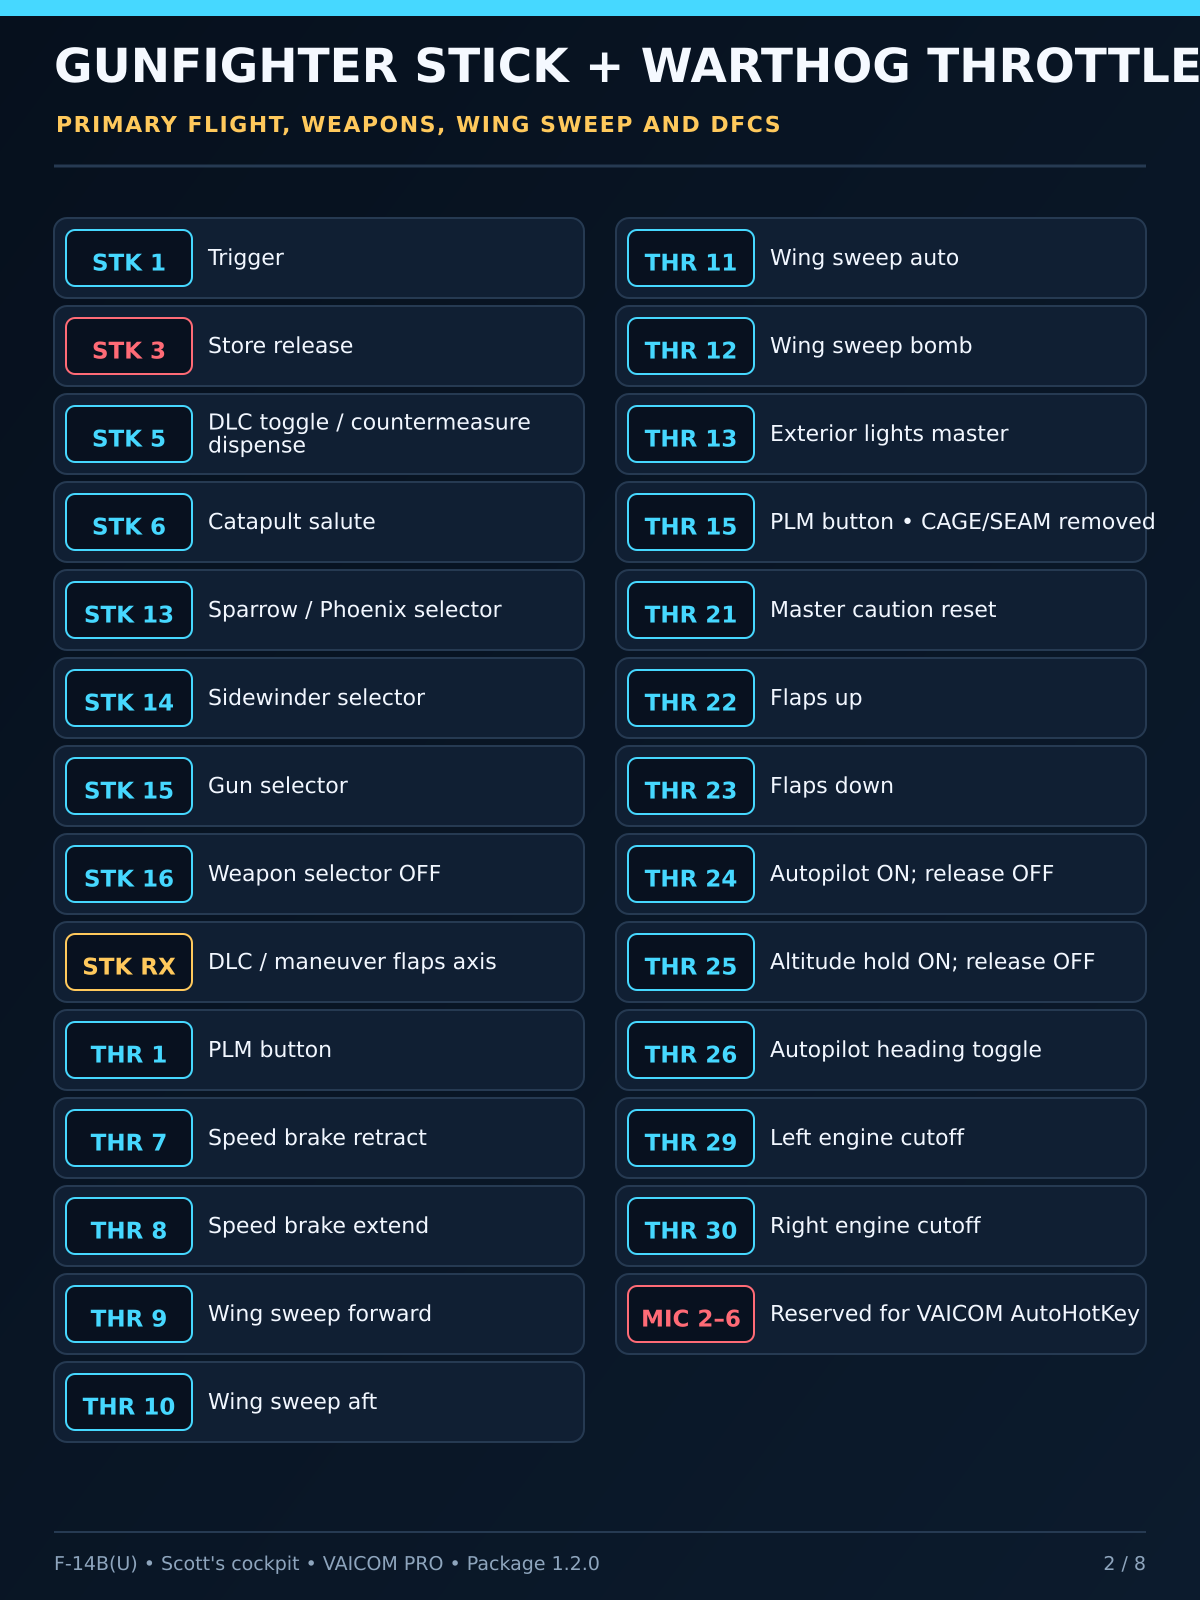
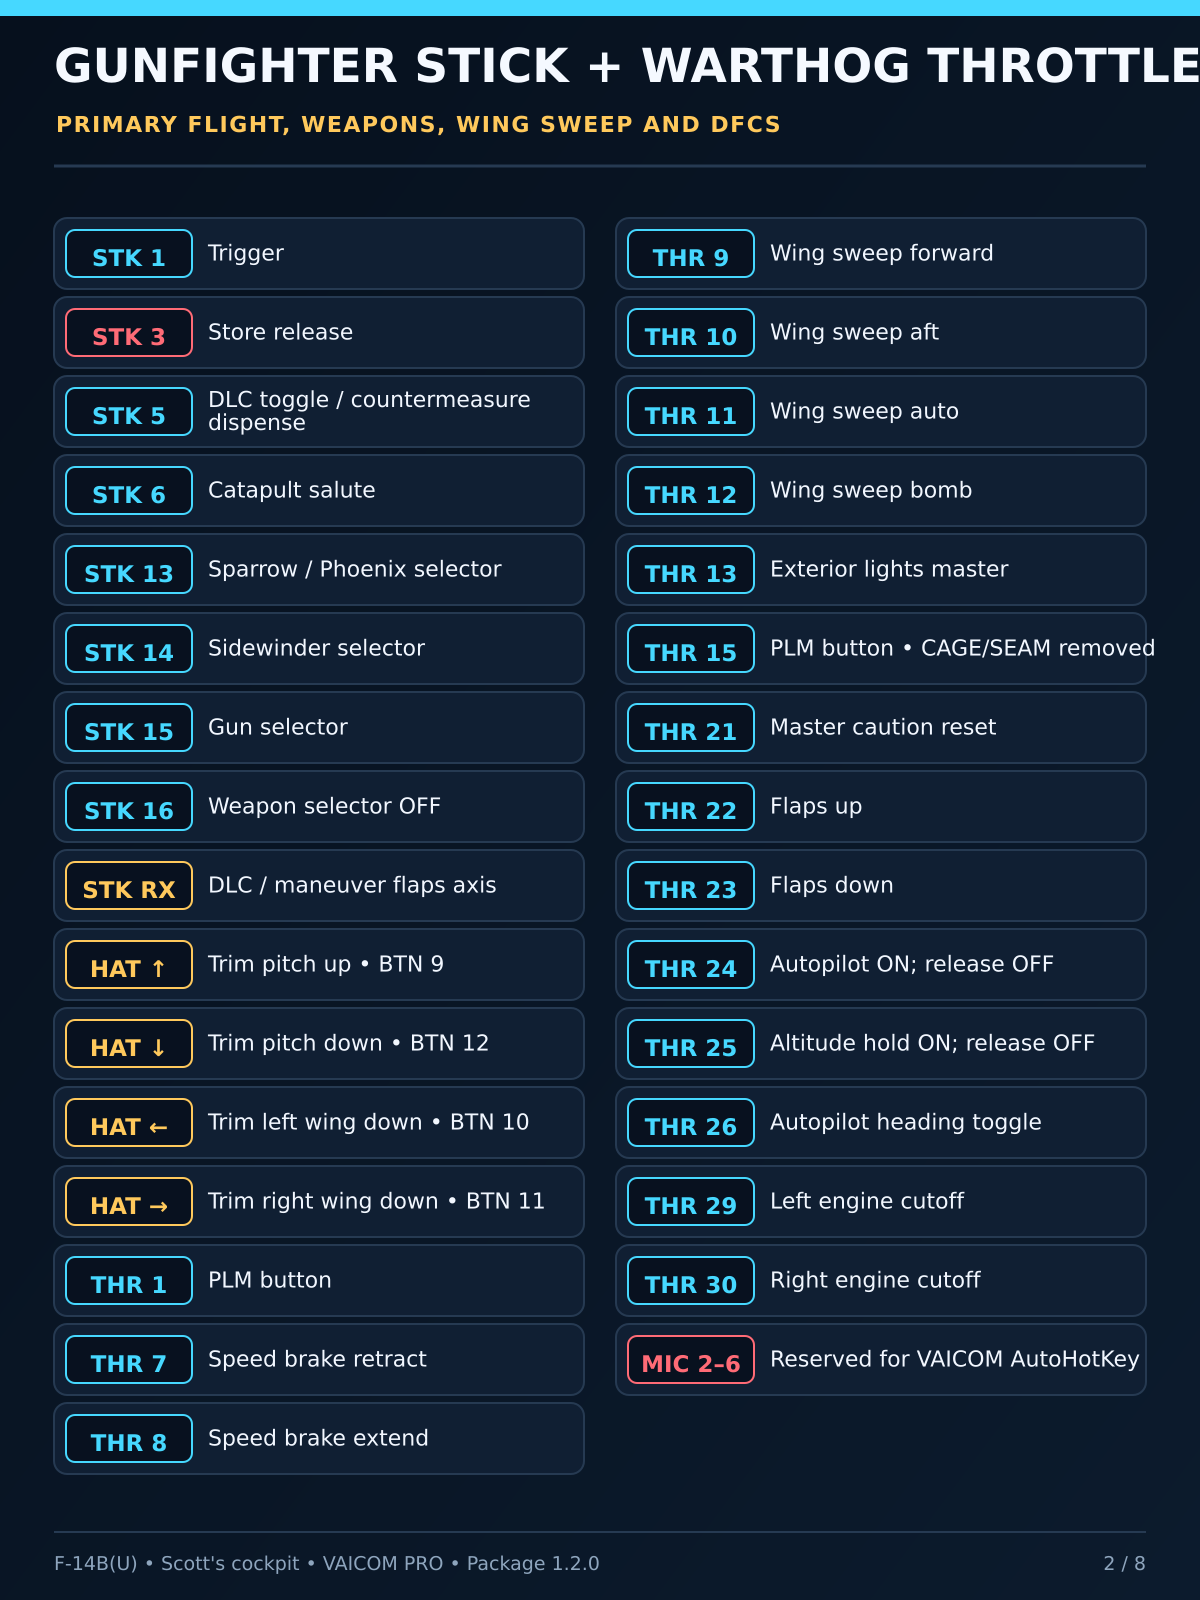
Map VKB Gunfighter trim HAT

Changed region(s): [[0.0308, 0.1562, 0.9558, 0.9062]]

diff --git a/docs/CONTROL-MAPPINGS.md b/docs/CONTROL-MAPPINGS.md
@@ -20,6 +20,17 @@
 
 These directional bindings use the F-14B(U) speed-brake extend/retract command. BTN15 explicitly removes Heatblur's inherited CAGE-SEAM assignment before adding PLM, preventing both commands from firing together. None of these changes alter the AutoHotKey-managed MIC inputs on buttons 2–6.
 
+## VKB F-14 Gunfighter — trim HAT
+
+| HAT direction | Button | Command |
+|---|---:|---|
+| Up | 9 | Trim pitch up |
+| Left | 10 | Trim roll left wing down |
+| Right | 11 | Trim roll right wing down |
+| Down | 12 | Trim pitch down |
+
+The four bindings are explicit in the Saved Games profile so they remain present even if Heatblur changes its device-default VKB mapping.
+
 ## MFD 1 — direct Jester
 
 | Button | Command | Button | Command |
